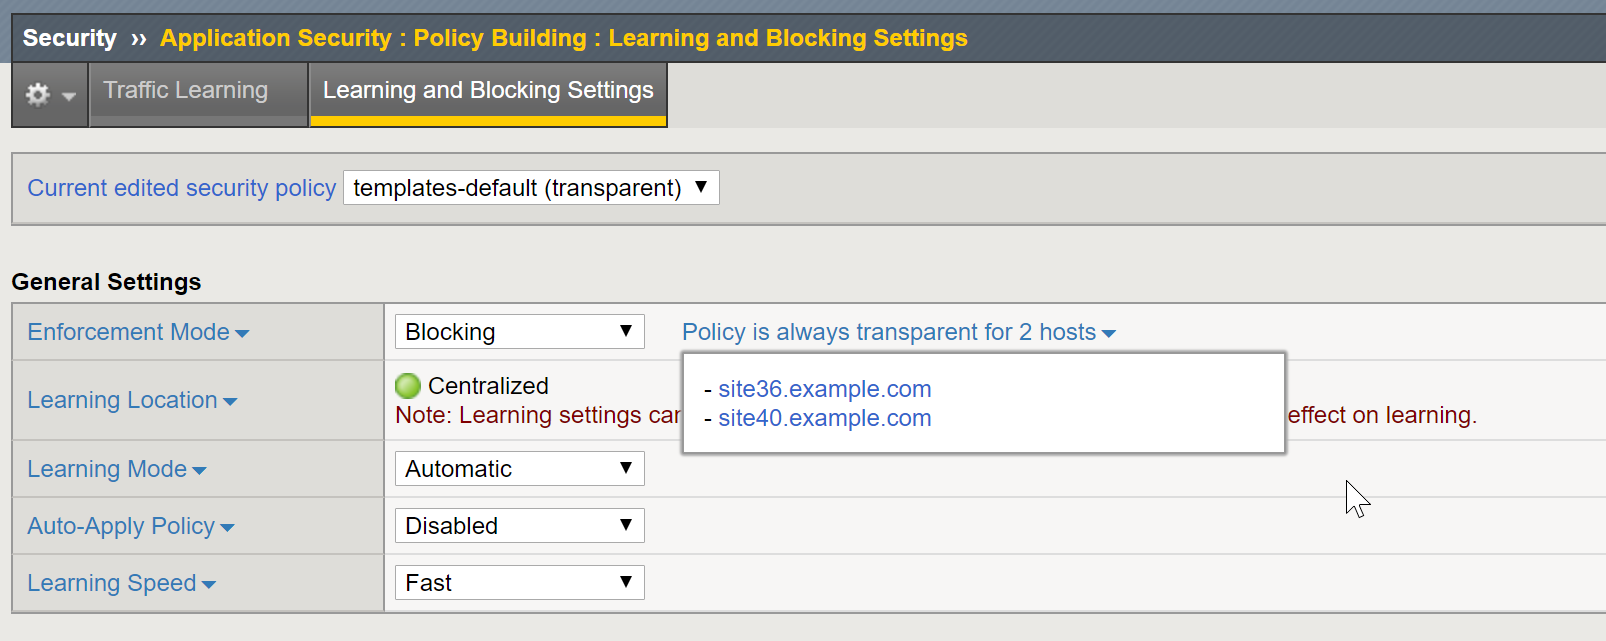
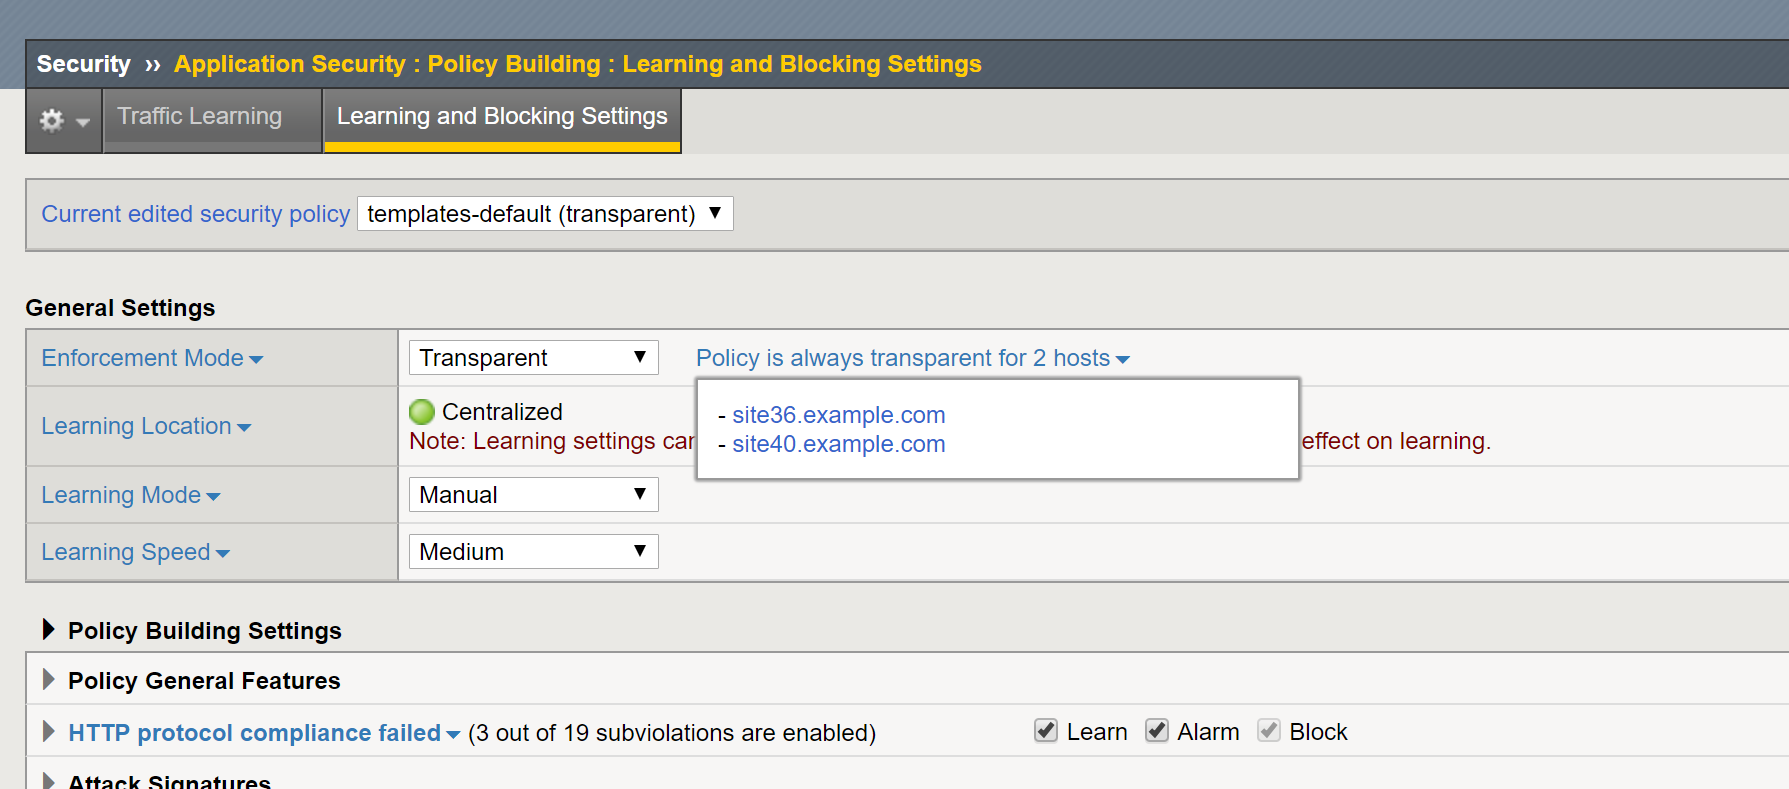
Update default ASM policy (set manual)

Changed region(s): [[0.0, 0.0, 1.0, 1.0]]

diff --git a/docs/class3/module2/lab3.rst b/docs/class3/module2/lab3.rst
@@ -6,13 +6,13 @@ Connect as **larry**
 
 Go to Configuration > SECURITY > Web Application Security > Policies, select ``templates-default`` ASM Policy.
 
-Go to POLICY PROPERTIES > General Properties and **Disable** the Learning Mode.
+Go to POLICY PROPERTIES > General Properties and **Manual** the Learning Mode.
 
 .. image:: ../pictures/module2/img_module2_lab3_1a.png
   :align: center
   :scale: 50%
 
-Go to POLICY BUILDING > Settings and **Disable** the Learning Mode. Answer **Ok** to the question
+Go to POLICY BUILDING > Settings and **Manual** the Learning Mode. Answer **Ok** to the question
 
 .. image:: ../pictures/module2/img_module2_lab3_1b.png
   :align: center
